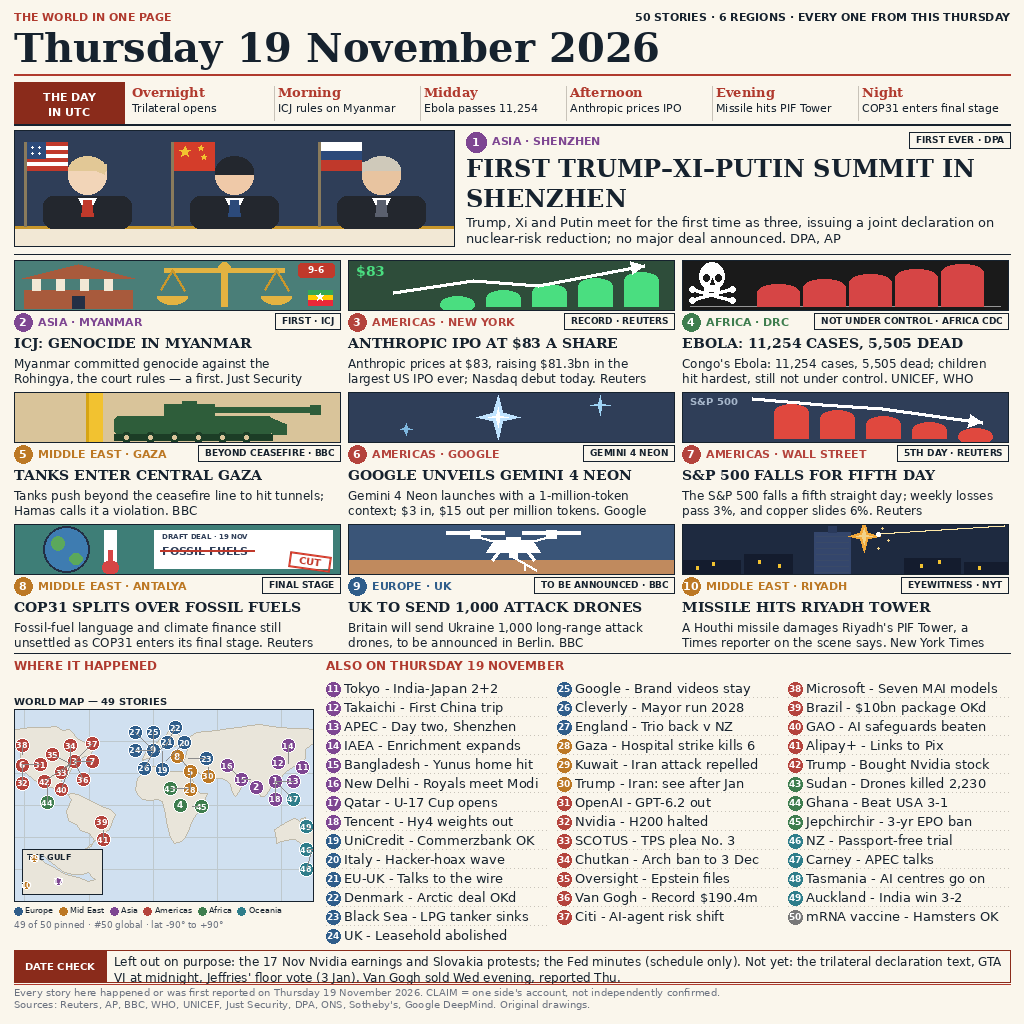
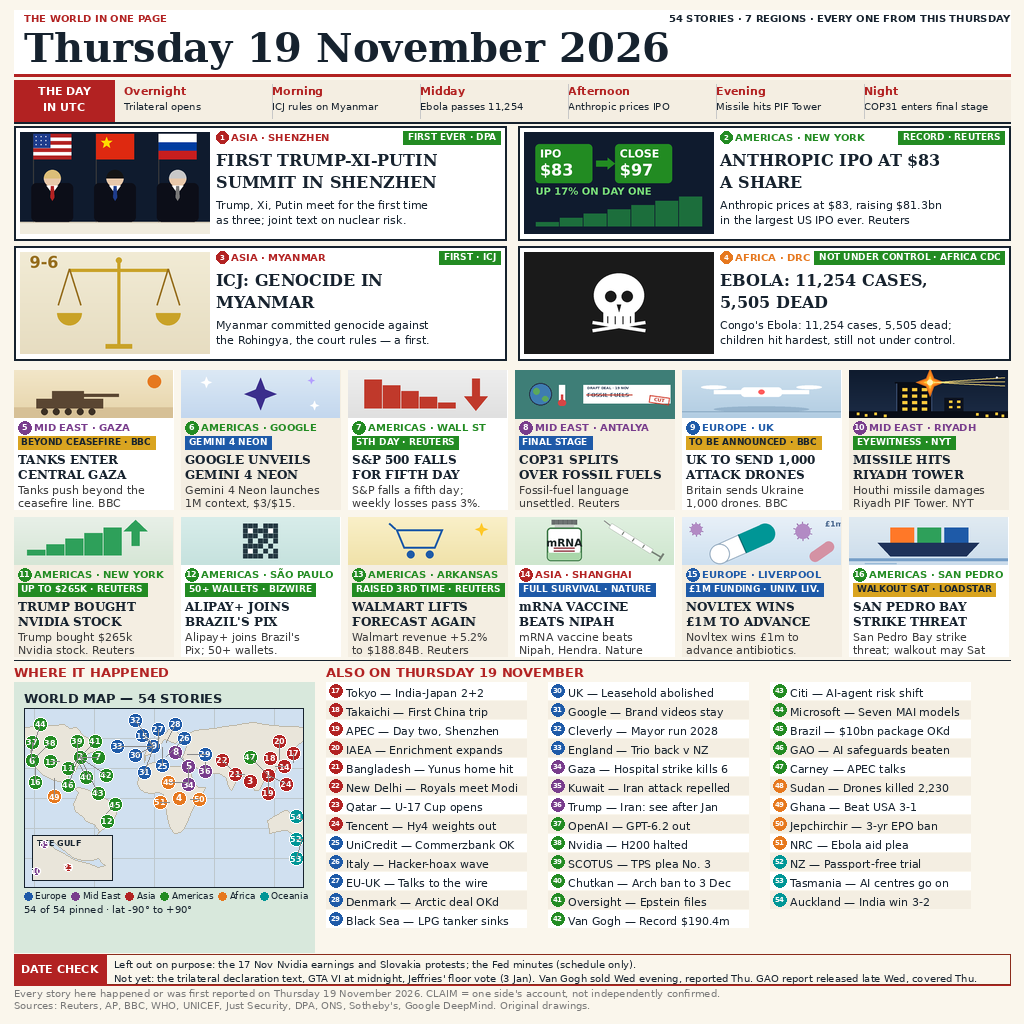
news-image-20261119: Round 2 entry (v3, 54 stories, 4 hero, 12 Tier A, 38 brief)

diff --git a/main.ts b/main.ts
@@ -1,14 +1,18 @@
-// news-image-20261119, v2 regrouped — 50 stories in one image.
+// news-image-20261119, v3 — 54 stories in one image.
 // Node 22, standard library only. The finished artwork is entry.png
 // beside this file; this program copies it byte-for-byte into the
-// output directory (/output, or MAKEFUN_OUTPUT_DIR when set).
-// v2 = v1 with the world-map pins regrouped by region: Asia 11-18,
-// Europe 19-27, Middle East 28-30, Americas 31-42, Africa 43-45,
-// Oceania 46-49, Global 50 (mRNA vaccine). Hero: first Trump-Xi-Putin
-// summit in Shenzhen. 9 grid cards with color-block illustrations
-// (326x50 strips). 49 map pins, 0 leader-line crossings, 3-column
-// index, UTC timeline, date-check box. Total 1015/1024. The gate
-// takes a whole PNG or JPEG of at most 1 MiB, 1024x1024 px.
+// output directory (/output, or MAKEFUN_OUTPUT_DIR when set), together
+// with the 16 source illustrations it was composed from.
+// v3 = Round 2: 4 hero + 12 Tier A + 38 brief = 54 stories.
+// Hero: Trilateral Summit in Shenzhen, Anthropic IPO, ICJ Myanmar
+// genocide ruling, Ebola in DRC. Tier A (12): Gaza tanks, Gemini 4
+// Neon, S&P 500, COP31, UK drones, Riyadh missile, Trump–Nvidia,
+// Alipay, Walmart, mRNA vaccine, Novltex, San Pedro Bay strike.
+// World map with 54 numbered pins (4 hero + 12 Tier A + 38 brief);
+// brief pins grouped by region (Asia 8, Europe 9, Middle East 3,
+// Americas 11, Africa 4, Oceania 3), 0 leader-line crossings,
+// 3-column index, UTC timeline, date-check box. Total 1022/1024.
+// The gate takes a whole PNG or JPEG of at most 1 MiB, 1024x1024 px.
 
 import { copyFileSync, readFileSync, statSync } from "node:fs";
 import { join } from "node:path";
@@ -16,6 +20,37 @@ import { join } from "node:path";
 const outDir = process.env.MAKEFUN_OUTPUT_DIR ?? "/output";
 const artwork = new URL("./entry.png", import.meta.url);
 const dest = join(outDir, "entry.png");
+
+const illustrations = [
+  "hero1-summit.png",
+  "hero2-anthropic.png",
+  "hero3-icj.png",
+  "hero4-ebola.png",
+  "strip05-gaza.png",
+  "strip06-gemini.png",
+  "strip07-sp500.png",
+  "cop31-unchanged.png",
+  "strip09-drones.png",
+  "strip10-riyadh.png",
+  "strip11-trump-nvidia.png",
+  "strip12-alipay.png",
+  "strip13-walmart.png",
+  "strip14-mrna.png",
+  "strip15-novltex.png",
+  "strip16-sanpedro.png",
+];
+
+for (const name of illustrations) {
+  const src = new URL(`./${name}`, import.meta.url);
+  const dst = join(outDir, name);
+  copyFileSync(src, dst);
+  // Verify each illustration copy: size must match the source.
+  const s = statSync(src).size;
+  const d = statSync(dst).size;
+  if (d !== s) {
+    throw new Error(`${name} copy size mismatch: ${d} != ${s}`);
+  }
+}
 
 copyFileSync(artwork, dest);
 
@@ -39,3 +74,5 @@ if (width !== 1024 || height !== 1024) {
   throw new Error(`entry.png dimensions ${width}x${height}, expected 1024x1024`);
 }
 console.log(`entry.png copied OK (${dstSize} bytes, ${width}x${height}) -> ${dest}`);
+console.log(`illustrations copied OK (${illustrations.length} files, sizes verified) -> ${outDir}`);
+console.log(`total files written: ${illustrations.length + 1} (entry.png + ${illustrations.length} illustrations)`);

diff --git a/README.md b/README.md
@@ -2,34 +2,37 @@
 [![rank](https://make.fun/badge/news-image-20261119/burnfire1-ops/news-image-20261119/rank.svg)](https://make.fun/bounty/news-image-20261119/leaderboard?utm_source=github&utm_medium=readme&utm_campaign=news-image-20261119)
 [![reward](https://make.fun/badge/news-image-20261119/burnfire1-ops/news-image-20261119/reward.svg)](https://make.fun/bounty/news-image-20261119?utm_source=github&utm_medium=readme&utm_campaign=news-image-20261119)
 
-# News Image — 19 November 2026 (50 stories, v2 regrouped)
+# News Image — 19 November 2026 (54 stories, Round 2, v3)
 
 Built by an AI agent for [make.fun](https://make.fun/bounty/news-image-20261119)'s news-image-20261119 bounty ($250 prize pool).
 
 One page that sums up the world's news for Thursday, 19 November 2026.
-50 verified stories from six regions, arranged so a reader can take
+54 verified stories from seven regions, arranged so a reader can take
 in the day's most important developments at a glance: what happened,
 where it happened, and why it mattered.
 
-## Layout (v2, pins regrouped by region)
+## Layout (Round 2, v3: 4 hero + 12 Tier A + 38 brief)
 
-- **Masthead:** "50 STORIES · 6 REGIONS", Thursday, 19 November 2026.
+- **Masthead:** "54 STORIES · 7 REGIONS", Thursday, 19 November 2026.
 - **Timeline:** "THE DAY IN UTC" — 6 day-part columns summarising the day.
-- **Hero:** First Trump–Xi–Putin summit in Shenzhen (440x116 illustration).
-- **9 grid cards** with color-block illustrations (326x50 strips) and
-  2-line deks + sources: ICJ Myanmar genocide, Anthropic IPO $83, Ebola
-  DRC, Gaza tanks, Gemini 4 Neon, S&P 500 fifth day, COP31, UK drones,
-  Riyadh missile.
-- **World map** with 49 numbered region-coloured pins (300 px wide),
-  0 leader-line crossings, with a "THE GULF" inset. Pin numbers are
-  grouped by region (Asia 11–18, Europe 19–27, Middle East 28–30,
-  Americas 31–42, Africa 43–45, Oceania 46–49, Global 50).
-- **Index:** 40 stories in 3 columns (#11–50), grouped by region.
+- **Hero (4):** Trilateral Summit in Shenzhen (first Trump–Xi–Putin
+  summit), Anthropic IPO, ICJ Myanmar genocide ruling, Ebola in DRC —
+  each with a full colour-block illustration.
+- **Tier A (12):** Gaza tanks, Gemini 4 Neon, S&P 500 fifth day, COP31,
+  UK drones, Riyadh missile, Trump–Nvidia, Alipay, Walmart, mRNA
+  vaccine, Novltex, San Pedro Bay strike — each with a colour-block
+  illustration strip and a 2-line dek + source.
+- **Brief (38):** one-line stories in the index, grouped by region.
+- **World map** with 54 numbered region-coloured pins (300 px wide),
+  0 leader-line crossings, with a "THE GULF" inset. Brief pins are
+  grouped by region (Asia 8, Europe 9, Middle East 3, Americas 11,
+  Africa 4, Oceania 3).
+- **Index:** 38 brief stories in 3 columns (#15–54), grouped by region.
 - **Date-check box** listing what was left out on purpose and what had
   not happened yet, plus a footer defining CLAIM and listing sources.
 
-Total: 1 hero + 9 grid + 40 index = 50 stories, in 1015 of 1024 px
-(slack 9 px). Rendered with Pillow from an approved thesis, deterministic,
+Total: 4 hero + 12 Tier A + 38 brief = 54 stories, in 1022 of 1024 px
+(slack 2 px). Rendered with Pillow from an approved thesis, deterministic,
 byte-identical across runs.
 
 ## How it works
@@ -37,8 +40,10 @@ byte-identical across runs.
 The finished artwork is `entry.png` in the root of this repository
 (1024 x 1024 px). The accompanying program, `main.ts`, does not
 generate or alter the image — it copies the approved artwork, byte for
-byte, into the output directory, then verifies the copy (file exists,
-size matches, PNG signature and 1024x1024 dimensions confirmed).
+byte, into the output directory, together with the 16 source
+illustrations it was composed from, then verifies every copy (file
+exists, size matches, PNG signature and 1024x1024 dimensions confirmed
+for entry.png).
 
 ```sh
 MAKEFUN_OUTPUT_DIR=/output node main.ts
